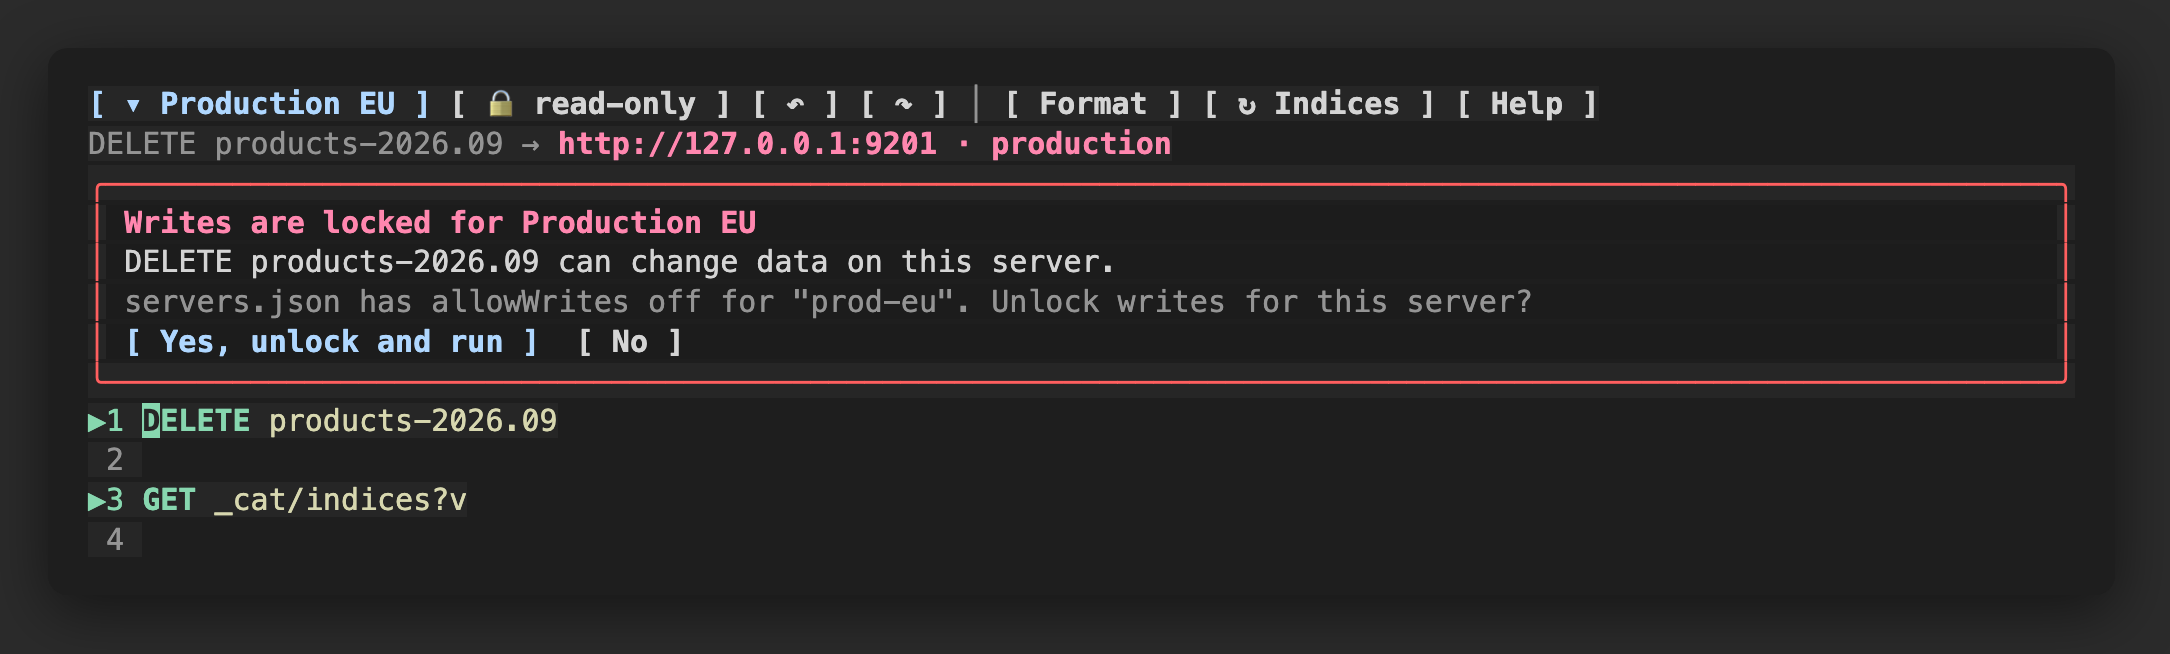
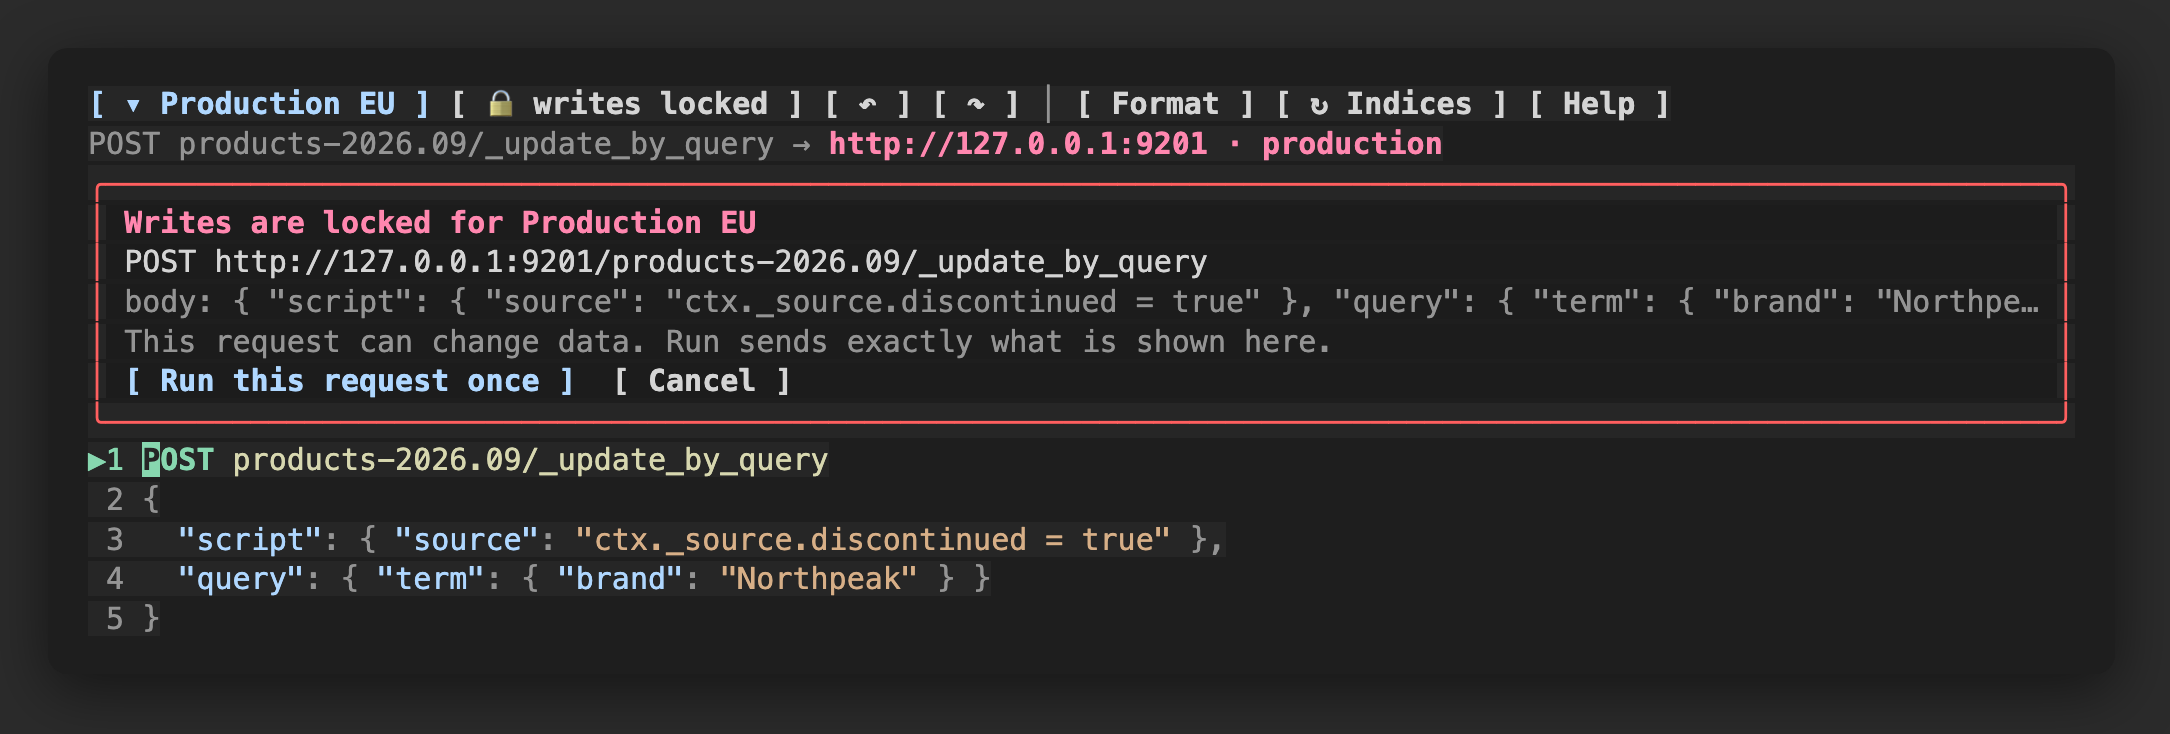
Write prompt hint matches its button; new write-lock screenshot

diff --git a/hooks/register.tsx b/hooks/register.tsx
@@ -850,7 +850,7 @@ export const register: Register = on => {
             <Text bold color="error">{`Writes are locked for ${ask.req.serverName}`}</Text>
             <Text>{`${ask.req.method} ${ask.req.url}/${ask.req.path.replace(/^\/+/, '')}`}</Text>
             {ask.req.body ? <Text dimColor wrap="truncate-end">{`body: ${ask.req.body.replace(/\s+/g, ' ').slice(0, 300)}`}</Text> : <Text dimColor>no body</Text>}
-            <Text dimColor>This request can change data. Yes sends exactly what is shown here.</Text>
+            <Text dimColor>This request can change data. Run sends exactly what is shown here.</Text>
             <Box flexDirection="row" gap={2} height={1}>
               <Button
                 key="confirm-once"
